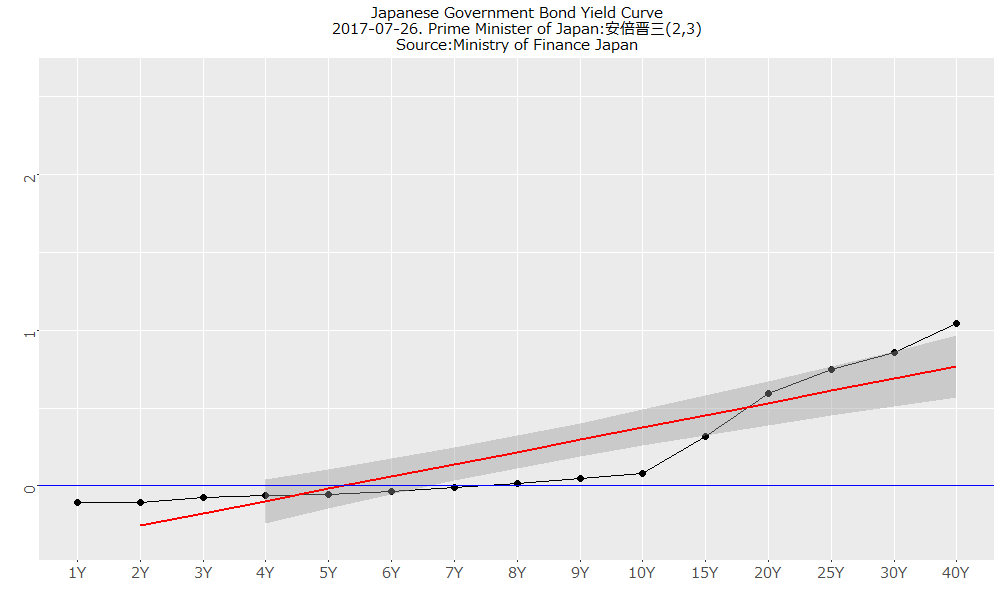
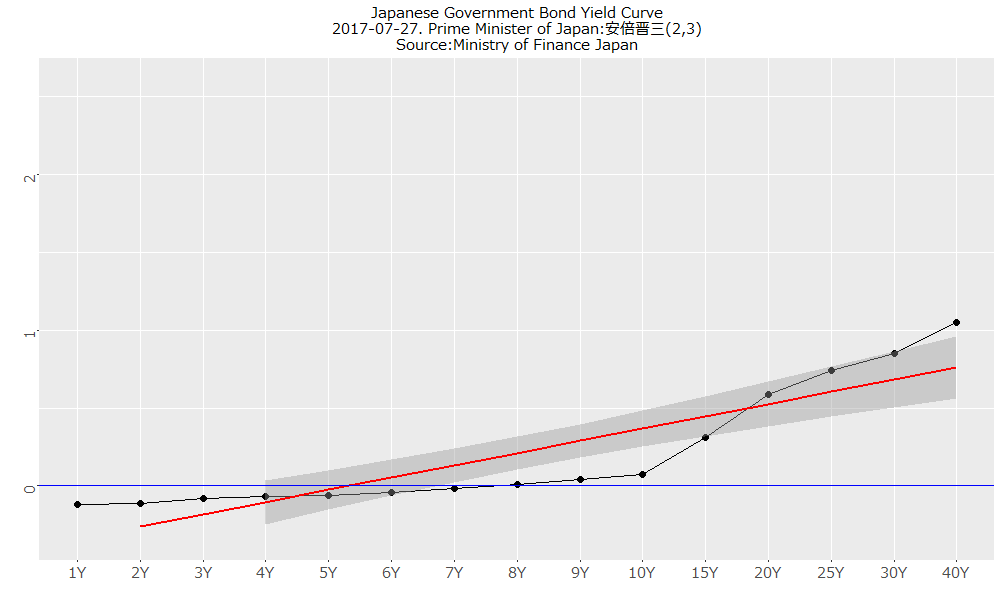
定期更新
定期更新

diff --git a/charts/indicator/JGByieldCurve/JGByieldCurve.html b/charts/indicator/JGByieldCurve/JGByieldCurve.html
@@ -183,7 +183,7 @@
    <td style="text-align:left;"> <a href="http://indicator.am-consulting.co.jp/JGByieldCurve/JGBcurve-116.png"><img border="2" src="http://indicator.am-consulting.co.jp/JGByieldCurve/JGBcurve-116.png" width="30%" /><b>2017-06-30</b></a> </td>
   </tr>
   <tr>
-   <td style="text-align:left;"> <a href="http://indicator.am-consulting.co.jp/JGByieldCurve/JGBcurve-117.png"><img border="2" src="http://indicator.am-consulting.co.jp/JGByieldCurve/JGBcurve-117.png" width="30%" /><b>2017-07-26</b></a> </td>
+   <td style="text-align:left;"> <a href="http://indicator.am-consulting.co.jp/JGByieldCurve/JGBcurve-117.png"><img border="2" src="http://indicator.am-consulting.co.jp/JGByieldCurve/JGBcurve-117.png" width="30%" /><b>2017-07-27</b></a> </td>
    <td style="text-align:left;">  </td>
    <td style="text-align:left;">  </td>
    <td style="text-align:left;">  </td>
